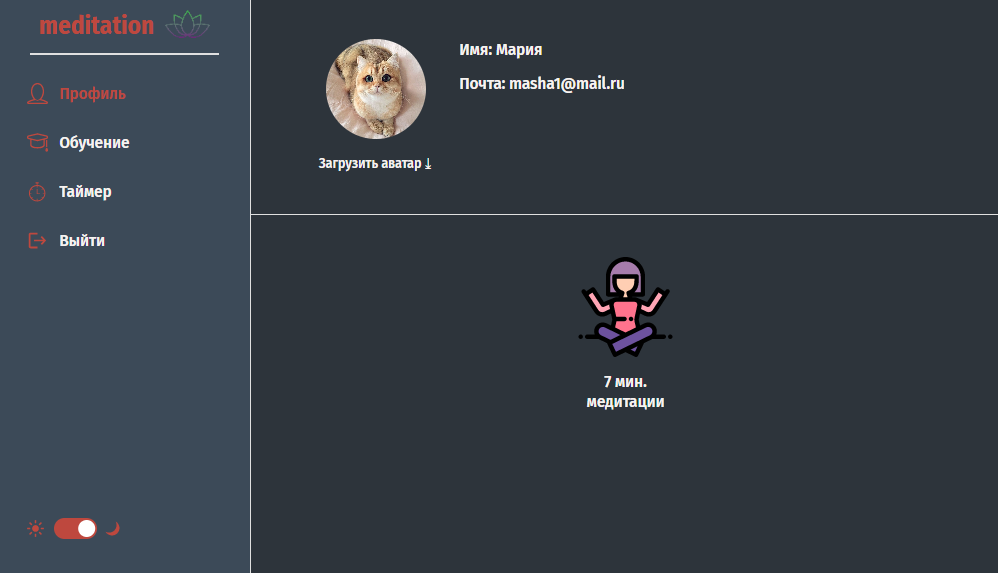
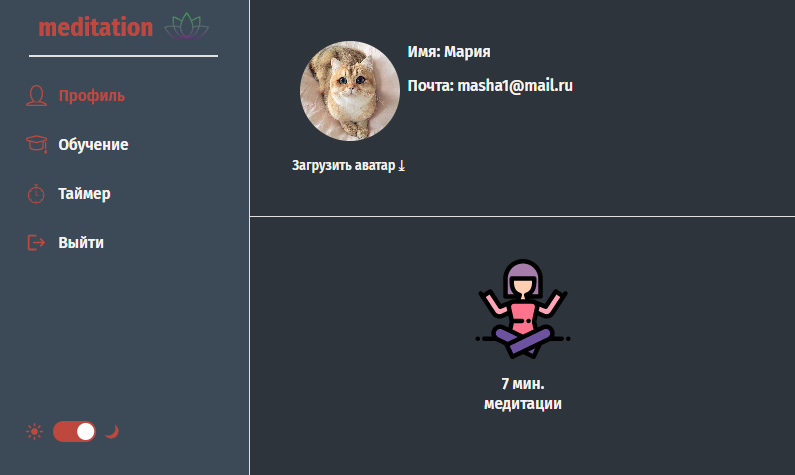
update img main page and reamde

diff --git a/README.md b/README.md
@@ -1,25 +1,35 @@
-# What is Meditation
+# What is Meditation? :information_desk_person:
 
-Meditation is project for learning basic meditation and improve your meditation skill.
+:herb: Meditation is project for learning basic meditation and improve your meditation skill.
 
-## `Live demo`: [https://mfilatkina.github.io/meditation/](https://mfilatkina.github.io/meditation/)
+### You can:
 
-## Getting started
+:sunglasses: Create own profile
+:rainbow: Learn meditation technics
+:alarm_clock: Use timer for your meditation
+:rocket: Track your meditation progress
+:first_quarter_moon: Use light or dark mode
 
-Downlodad the project from github.
+### Live demo: [https://mfilatkina.github.io/meditation/](https://mfilatkina.github.io/meditation/)
 
-## Create file ".env" in project root folder and write the API key in it:
+![Application main page](https://raw.githubusercontent.com/mfilatkina/meditation/main/screenshots/main_page.png)
 
-`REACT_APP_API_KEY` = `your API key`
+### Getting started
 
-## Run in the project directory:
+:heavy_check_mark: Downlodad the project from github.
 
-Install NPM packages:
+### Create file ".env" in project root folder and write the API key in it:
 
-### `npm install`
+:heavy_check_mark: `REACT_APP_API_KEY` = `your API key`
 
-Start the project:
+### Run in the project directory:
 
-### `npm start`
+:heavy_check_mark: Install NPM packages:
 
-Open [http://localhost:3000](http://localhost:3000) to view project in your browser.
+#### `npm install`
+
+:heavy_check_mark: Start the project:
+
+#### `npm start`
+
+:heavy_check_mark: Open [http://localhost:3000](http://localhost:3000) to view project in your browser :tada:
